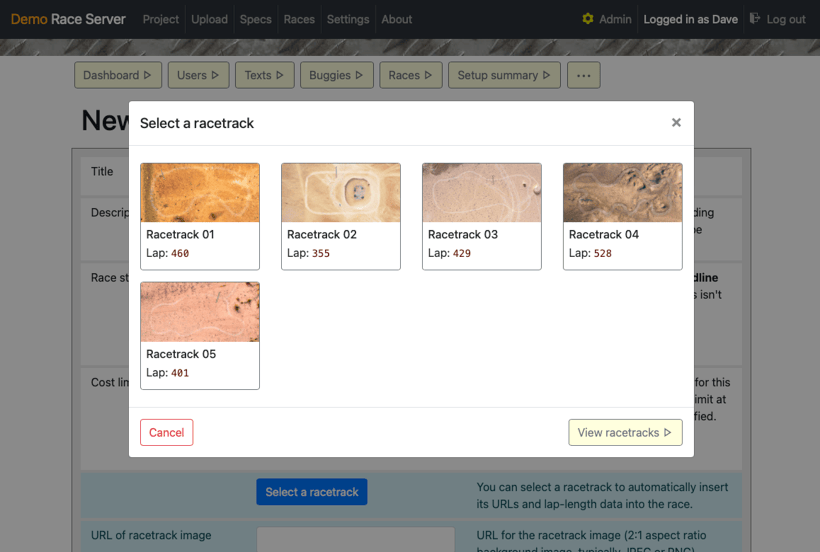
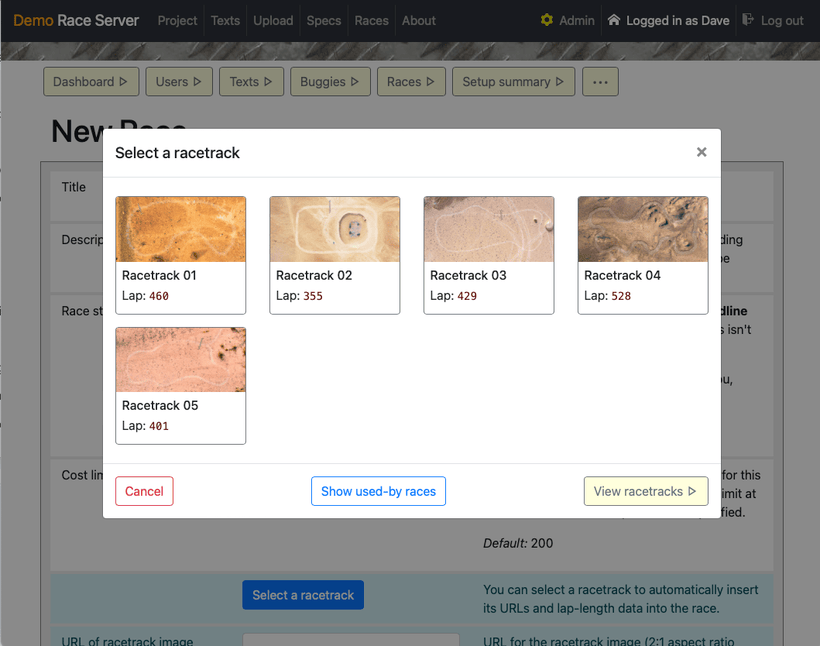
document the used-by-race feature in racetrack viewer

Changed region(s): [[0.0, 0.0, 1.0, 1.0]]

diff --git a/docs/races/creating.md b/docs/races/creating.md
@@ -65,6 +65,15 @@ not going to be awake then, change this to an earlier time!
 The Select-a-racetrack dialogue lets you pick from a collection of examples
 that are available by default — or you can create your own.
 
+{: .note}
+There's a **Show used-by races** button (requires JavaScript) that will display,
+in a list under each racetrack, the races that are using it. This is helpful if
+you want to run each of your races on a different track. "Used by" indicates
+that the race used, or will use, the _same_ URLs (image and path SVG) as the
+racetrack. (If you edit racetracks after you've created a race, or duplicate
+them, this may affect the "used-by" results.)
+
+
 * **Is visible?**  
   Students can only see races that you have explicitly marked as "visible" on
   the server. This lets you experiment without publishing them: if you choose
